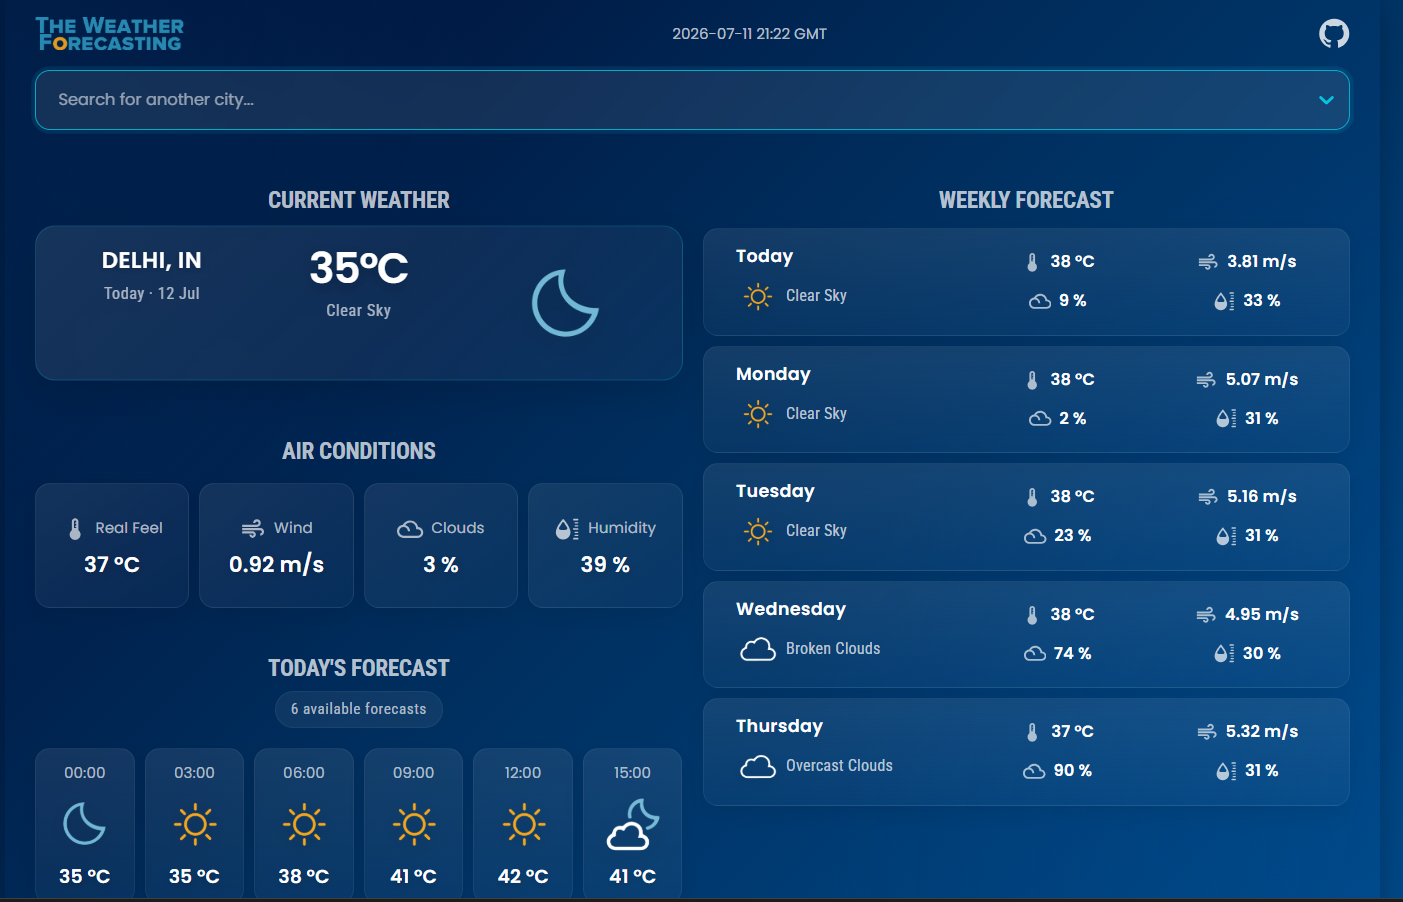
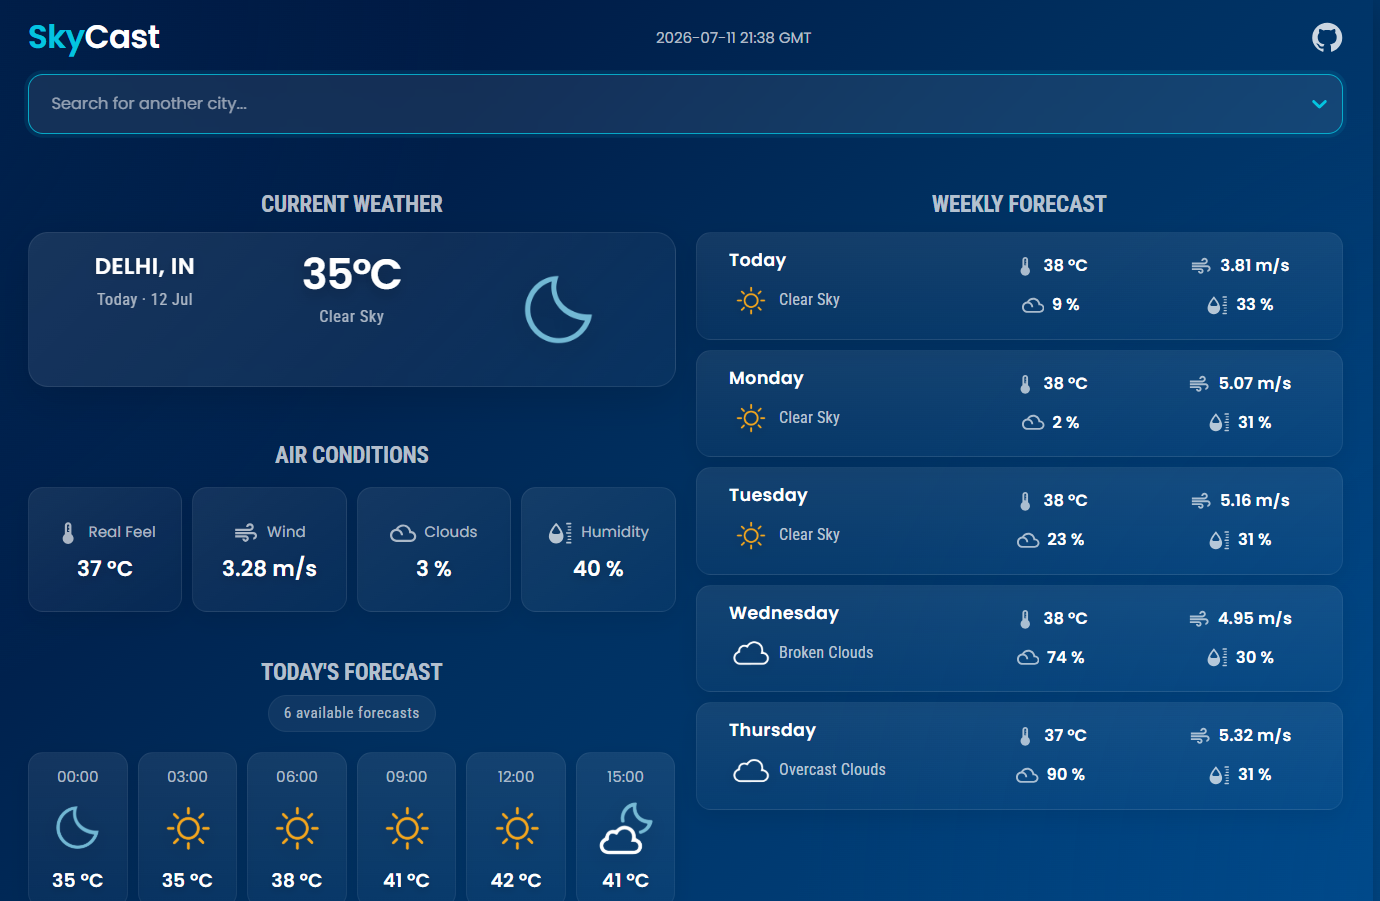
name fixed

diff --git a/public/index.html b/public/index.html
@@ -1,4 +1,4 @@
-<!DOCTYPE html>
+<!doctype html>
 <html lang="en">
   <head>
     <meta charset="utf-8" />
@@ -11,7 +11,7 @@
     />
     <link rel="apple-touch-icon" href="%PUBLIC_URL%/favicon.ico" />
     <link rel="manifest" href="%PUBLIC_URL%/manifest.json" />
-    <title>The Weather | Current & Forecasting</title>
+    <title>SkyCast | Weather Forecast</title>
   </head>
   <body>
     <div id="root"></div>